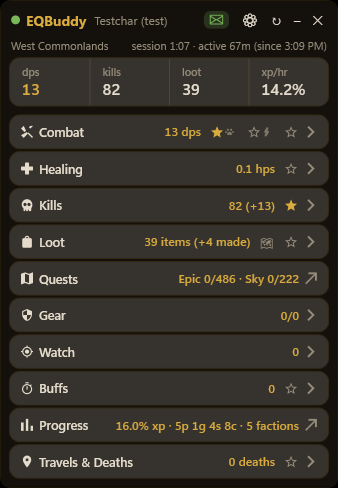
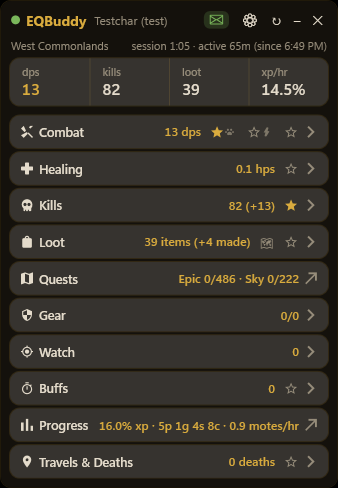
#219: motes/hr is back on the widget, and the launcher carries what moves
typical-usual-chaos, within an hour of 1.96.0: "Where'd motes/hour go? That was
the most useful stat and the main reason I opened EQBuddy." He is right, and it
was mine. Yesterday's Progress fold put the Motes card into the Wealth tab and
the RATE went with it - reachable only by opening the window and clicking a tab,
and gone from Options, so there was no way to put it back. His third screenshot
is Options -> Cards & windows with no Motes row in it.

The launcher now carries what MOVES WHILE YOU PLAY - xp, coin, and the mote rate
- and faction/raids moved off it onto their own tab badges, which already showed
them. That is a rule rather than a width trick, and it is the second time this
line has been decided by looking at the card: the first version truncated
mid-word, and trimming it to fit is what dropped the mote rate in the first
place. A summary replacing five card headers gets to choose WHICH numbers, not
to quietly lose one.

ProgressThemeTests is new and is the point: every gate was green when this
shipped, because nothing asked. It is a string.

Also in this commit, both found while looking at his screenshots:

* A long zone name printed straight THROUGH the session timer - "The Plane of
  Fear 4 (Refine[sed]sion 0:11 - active 11m". ZoneText and SessionText were both
  children of a Grid with no ColumnDefinitions, so they shared one cell and
  nothing ever told the zone where the other text starts. The Avalonia twin has
[…]

diff --git a/src/EQBuddy/MainWindow.xaml b/src/EQBuddy/MainWindow.xaml
@@ -178,10 +178,27 @@
                            Foreground="{DynamicResource GoodBrush}" FontWeight="SemiBold"/>
             </Border>
 
-            <!-- Session line -->
+            <!-- Session line.
+                 TWO COLUMNS, and it has to be. These were both children of a Grid with no
+                 ColumnDefinitions, so they shared one cell — zone left, session right —
+                 and a long zone name drew straight THROUGH the session text: "The Plane
+                 of Fear 4 (Refine[sed]sion 0:11 · active 11m". Not clipped, not
+                 ellipsized, overprinted, because nothing ever told the zone where the
+                 other text starts. Trap 14's family: the fix is a real column, and the
+                 trimming only works once there is one.
+                 Spotted in a screenshot attached to #219 about something else entirely;
+                 nobody has ever reported it. The Avalonia twin has had the two-column
+                 grid all along (MainWindow.cs BuildSessionLine) — this is the Windows
+                 side catching up, not a new idea. -->
             <Grid Margin="{DynamicResource KpiRow}">
-                <TextBlock x:Name="ZoneText" Style="{StaticResource Dim}" Text="—"/>
-                <TextBlock x:Name="SessionText" Style="{StaticResource Dim}" HorizontalAlignment="Right" Text="session 0:00"/>
+                <Grid.ColumnDefinitions>
+                    <ColumnDefinition Width="*"/>
+                    <ColumnDefinition Width="Auto"/>
+                </Grid.ColumnDefinitions>
+                <TextBlock x:Name="ZoneText" Style="{StaticResource Dim}" Text="—"
+                           TextTrimming="CharacterEllipsis"/>
+                <TextBlock x:Name="SessionText" Grid.Column="1" Style="{StaticResource Dim}"
+                           HorizontalAlignment="Right" Text="session 0:00"/>
             </Grid>
 
             <!-- KPI strip (2026-08-11 modernization): the headline numbers before any

diff --git a/src/EQBuddy.UI.Shared/ProgressTheme.cs b/src/EQBuddy.UI.Shared/ProgressTheme.cs
@@ -1,4 +1,4 @@
-using EQBuddy.Core;
+using EQBuddy.Core;
 
 namespace EQBuddy.UI.Shared;
 
@@ -34,10 +34,21 @@ public static class ProgressTheme
     public static string Wealth(StatsSnapshot s)
     {
         var coin = StatsSnapshot.FormatCoin(s.Copper);
+        return MoteRate(s) is { } motes ? $"{coin} · {motes}" : coin;
+    }
+
+    /// <summary>The mote headline: count AND rate, the two halves the Motes card's own
+    /// header carried ("3 · 0.9/hr"). Null when nothing has dropped.
+    ///
+    /// The RATE is the point and it is the half that went missing in 1.96.0 — #219
+    /// (typical-usual-chaos): "Where'd motes/hour go? That was the most useful stat and
+    /// the main reason I opened EQBuddy." A farmer is measuring a camp against the clock,
+    /// so a running total answers a different question than the one being asked.</summary>
+    public static string? MoteRate(StatsSnapshot s)
+    {
         var motes = Motes.Summarize(s.Loot, s.Elapsed);
-        return motes.Total > 0
-            ? $"{coin} · {motes.Total} mote{(motes.Total == 1 ? "" : "s")}"
-            : coin;
+        if (motes.Total <= 0) return null;
+        return $"{motes.Total} mote{(motes.Total == 1 ? "" : "s")} · {motes.PerHour:0.#}/hr";
     }
 
     /// <summary>The Faction badge — the Faction card's own header, with the plural fixed.
@@ -70,23 +81,30 @@ public static class ProgressTheme
     /// <summary>The launcher card's one line — the line that has to justify replacing
     /// five card headers with one. Delegates the assembly (and the "omit a part that has
     /// nothing to say" rule) to <see cref="ProgressSurface.LauncherSummary"/>, which is
-    /// unit-tested in Core; this only decides which numbers go in.</summary>
+    /// unit-tested in Core; this only decides which numbers go in.
+    /// </summary>
     /// <remarks>
-    /// The parts here are SHORTER than the tab badges they come from, and that was found
-    /// by looking at the card rather than by reasoning about it: the first version passed
-    /// <see cref="Experience"/> and <see cref="Wealth"/> straight through and the widget
-    /// rendered "16.0% xp, +1 aa · 5p 1g 4s 8c · 1 mot…" — clipped mid-word, with the
-    /// faction count lost off the end entirely. A summary that replaces five card headers
-    /// and then truncates has not kept the glance; it has just hidden the loss.
+    /// **It carries what MOVES WHILE YOU PLAY: xp, coin, and the mote rate.** Faction and
+    /// raid clears are review-time facts and badge their own tabs instead — one click,
+    /// no scrolling.
     ///
-    /// So the launcher takes the headline of each part and the TABS carry the detail: the
-    /// AA and level counts belong to Experience's badge, the mote count to Wealth's. Four
-    /// short parts fit the widget's width; four full ones do not.
+    /// That rule was arrived at twice, both times by looking at the card rather than
+    /// reasoning about it. Passing the tab badges through verbatim rendered
+    /// "16.0% xp, +1 aa · 5p 1g 4s 8c · 1 mot…" — clipped mid-word, faction lost off the
+    /// end. Trimming each part to a headline then fitted, but the part dropped to make it
+    /// fit was the mote rate, and #219 (typical-usual-chaos) arrived within the hour of
+    /// 1.96.0: "Where'd motes/hour go? That was the most useful stat and the main reason I
+    /// opened EQBuddy."
+    ///
+    /// So the line is chosen by what changes while you are playing, not by what happens to
+    /// fit. A lifetime raid count and a faction TALLY ("5 factions" names neither which nor
+    /// how much) are the two weakest things that were on it; the mote rate is why a farmer
+    /// has the widget open at all.
     /// </remarks>
-    public static string LauncherSummary(StatsSnapshot s, int dingUnlocks, int raidsDefeated) =>
+    public static string LauncherSummary(StatsSnapshot s) =>
         ProgressSurface.LauncherSummary(
             xp: $"{s.XpPercent:0.0}% xp",
             coin: StatsSnapshot.FormatCoin(s.Copper),
-            factions: s.Faction.Count,
-            raidsCleared: raidsDefeated);
+            motes: Motes.Summarize(s.Loot, s.Elapsed) is { Total: > 0 } m
+                ? $"{m.PerHour:0.#} motes/hr" : null);
 }

diff --git a/tests/EQBuddy.Tests/ProgressThemeTests.cs b/tests/EQBuddy.Tests/ProgressThemeTests.cs
@@ -1,0 +1,102 @@
+using EQBuddy.Core;
+using EQBuddy.UI.Shared;
+using Xunit;
+
+namespace EQBuddy.Tests;
+
+/// <summary>
+/// What the PROGRESS THEME's launcher line and tab badges actually say.
+///
+/// **This file exists because 1.96.0 shipped without it and a player noticed within the
+/// hour.** The Progress theme folded five cards into one launcher; the Motes card's header
+/// had read "3 · 0.9/hr" on the widget face, and after the fold the rate survived only
+/// inside the Wealth tab's body — two clicks away, and gone from Options entirely, so it
+/// could not be put back. #219 (typical-usual-chaos): *"Where'd motes/hour go? That was
+/// the most useful stat and the main reason I opened EQBuddy."*
+///
+/// Every gate was green when that shipped. Nothing here is subtle or racy — it is a
+/// string, and the only reason no test caught it is that no test asked. So these ask.
+/// </summary>
+public class ProgressThemeTests
+{
+    /// <summary>A session that has looted motes over a measurable stretch — the shape a
+    /// farmer is in when they glance at the widget.</summary>
+    private static StatsSnapshot Farming(int motes = 3, double hours = 2) => new()
+    {
+        SessionStart = DateTime.Now.AddHours(-hours),
+        LastEventTime = DateTime.Now,
+        Copper = 51408,
+        Loot = [new LootDetail("Mote of Infinitesimal Potential", motes, "a shadowed man")],
+    };
+
+    [Fact]
+    public void The_launcher_carries_the_mote_RATE_not_just_a_count()
+    {
+        var line = ProgressTheme.LauncherSummary(Farming());
+
+        // The rate, on the widget face, without opening anything. This is the assertion
+        // #219 is about; a count alone answers a different question than "is this camp
+        // worth staying at".
+        Assert.Contains("motes/hr", line);
+    }
+
+    [Fact]
+    public void The_launcher_still_leads_with_xp_and_coin()
+    {
+        var line = ProgressTheme.LauncherSummary(Farming());
+
+        Assert.StartsWith("0.0% xp", line);
+        Assert.Contains(StatsSnapshot.FormatCoin(51408), line);
+    }
+
+    /// <summary>The other half of the bargain: the line stays short for everyone who is
+    /// not farming motes, which is what earns motes a place on it at all.</summary>
+    [Fact]
+    public void The_launcher_says_nothing_about_motes_when_none_have_dropped()
+    {
+        var line = ProgressTheme.LauncherSummary(new StatsSnapshot
+        {
+            SessionStart = DateTime.Now.AddHours(-1),
+            LastEventTime = DateTime.Now,
+            Copper = 51408,
+        });
+
+        Assert.DoesNotContain("mote", line);
+    }
+
+    /// <summary>Faction and raids badge their own TABS instead of riding the line. Pinned
+    /// so the fix for #219 is not undone by someone re-adding them for symmetry: the line
+    /// truncates mid-word once it is long enough, and the mote rate is what got dropped to
+    /// make room last time.</summary>
+    [Fact]
+    public void The_launcher_leaves_review_time_facts_to_the_tabs()
+    {
+        var s = Farming();
+        s.Faction.Add(new FactionDetail("Knights of Truth", 4, 80));
+
+        var line = ProgressTheme.LauncherSummary(s);
+
+        Assert.DoesNotContain("faction", line);
+        Assert.DoesNotContain("raid", line);
+        // …and the tab badge is where it went.
+        Assert.Equal("1 faction", ProgressTheme.Faction(s));
+    }
+
+    [Fact]
+    public void The_wealth_badge_carries_coin_and_the_mote_rate()
+    {
+        var badge = ProgressTheme.Wealth(Farming());
+
+        Assert.Contains(StatsSnapshot.FormatCoin(51408), badge);
+        Assert.Contains("/hr", badge);
+    }
+
+    /// <summary>"1 motes" is the same slip the Faction badge carried for months. It is
+    /// cheap to pin and it reads as carelessness on a surface people look at constantly.</summary>
+    [Fact]
+    public void One_mote_is_singular()
+    {
+        Assert.Contains("1 mote ", ProgressTheme.Wealth(Farming(motes: 1)));
+        Assert.Contains("2 motes ", ProgressTheme.Wealth(Farming(motes: 2)));
+    }
+}

diff --git a/src/EQBuddy.Core/ProgressSurface.cs b/src/EQBuddy.Core/ProgressSurface.cs
@@ -1,4 +1,4 @@
-namespace EQBuddy.Core;
+namespace EQBuddy.Core;
 
 /// <summary>
 /// The four progress surfaces, in the order every UI shows them — the Progress THEME
@@ -113,15 +113,30 @@ public static class ProgressSurface
     /// card's "Epic 0/486 · Sky 0/222": carry the numbers those headers carried, so the
     /// glance they answered still works without opening anything.
     ///
-    /// XP leads because it is the one that moves every fight. A part that has nothing to
-    /// say is omitted rather than printed as a zero — five zeros would be noise on a fresh
-    /// character, which is exactly who is looking at a fresh widget.</summary>
+    /// **The line carries what MOVES WHILE YOU PLAY, and the tab badges carry the rest.**
+    /// XP leads because it changes every fight; coin and the mote rate change every drop.
+    /// Faction and raid clears are review-time facts — they still badge their own tabs,
+    /// which is one click and no scrolling. That split is not a width trick, it is what a
+    /// glance is FOR, and it was learned the hard way twice in one day: first the line was
+    /// long enough to truncate mid-word, then it was trimmed by dropping the mote rate —
+    /// and #219 (typical-usual-chaos) arrived within the hour saying motes/hr "was the
+    /// most useful stat and the main reason I opened EQBuddy". A summary that replaces
+    /// five card headers gets to choose WHICH numbers, not to quietly lose one.
+    ///
+    /// A part that has nothing to say is omitted rather than printed as a zero — five
+    /// zeros would be noise on a fresh character, which is exactly who is looking at a
+    /// fresh widget. That is also what keeps this line short for the players who are not
+    /// farming motes.</summary>
     public static string LauncherSummary(
-        string? xp = null, string? coin = null, int factions = 0, int raidsCleared = 0)
+        string? xp = null, string? coin = null, int factions = 0, int raidsCleared = 0,
+        string? motes = null)
     {
         var parts = new List<string>();
         if (!string.IsNullOrWhiteSpace(xp)) parts.Add(xp!);
         if (!string.IsNullOrWhiteSpace(coin)) parts.Add(coin!);
+        // Straight after coin: motes ARE currency in Legends, and a farmer watches the
+        // rate the way everyone else watches xp/hr.
+        if (!string.IsNullOrWhiteSpace(motes)) parts.Add(motes!);
         if (factions > 0) parts.Add($"{factions} faction{(factions == 1 ? "" : "s")}");
         if (raidsCleared > 0) parts.Add($"{raidsCleared} raid{(raidsCleared == 1 ? "" : "s")}");
         return parts.Count > 0 ? string.Join(" · ", parts) : "no progress yet";

diff --git a/src/EQBuddy.Core/UpdateChecker.cs b/src/EQBuddy.Core/UpdateChecker.cs
@@ -1,4 +1,4 @@
-using System.Diagnostics;
+using System.Diagnostics;
 using System.IO;
 using System.Net.Http;
 using System.Reflection;
@@ -142,10 +142,18 @@ public static class UpdateChecker
         var folder = FindUpdateFolder(configuredFolder);
         var local = folder is null ? null : Check(folder);
 
-        // A local folder holding a genuine update is the cheapest possible install: take it
-        // and skip the network entirely, which is the point of the family/LAN channel.
-        if (local is not null && IsNewer(local)) return local;
-
+        // BOTH sources, always. This used to short-circuit — "if the local folder holds
+        // anything newer than what is installed, take it and skip the network" — which is
+        // the same veto the paragraph above says was removed, just narrower: local only had
+        // to beat the INSTALLED build, not the published one. A folder sitting one release
+        // behind therefore hid every release after it, one hop at a time, and the player
+        // updated, relaunched, and was offered another (#218, n3cr0nk1tt3n: "I have to
+        // update multiple times when starting up a session because it did not update to
+        // the most modern build").
+        //
+        // The family/LAN channel loses nothing. PickBest still gives local the tie, so an
+        // equally-new file on disk is still installed without a download — and the check
+        // that now always runs is a small API probe with a short timeout, not the 45 MB.
         return PickBest(local, await CheckGitHubAsync());
     }
 

diff --git a/tests/EQBuddy.Tests/UpdateCheckerTests.cs b/tests/EQBuddy.Tests/UpdateCheckerTests.cs
@@ -1,4 +1,4 @@
-using System.Security.Cryptography;
+using System.Security.Cryptography;
 using EQBuddy.Core;
 
 namespace EQBuddy.Tests;
@@ -23,7 +23,17 @@ public class UpdateCheckerTests : IDisposable
     /// <summary>The bug this exists to prevent: a synced-but-stale local installer is a
     /// perfectly good answer, just not a new one. It used to stop the GitHub feed from being
     /// consulted at all, so a family member whose OneDrive hadn't caught up never heard about
-    /// the release — and a restart didn't help, because startup took the same path.</summary>
+    /// the release — and a restart didn't help, because startup took the same path.
+    ///
+    /// **And it went on shipping while this test was green (#218).** The rule was right and
+    /// asserted here; the CALLER never reached it. <c>FindBestAsync</c> kept an early
+    /// return — "if local beats what is INSTALLED, take it and skip the network" — which is
+    /// the same veto one level up, narrower and therefore harder to see: local only had to
+    /// beat the installed build, not the published one, so a folder one release behind hid
+    /// every release after it and the player updated a hop at a time.
+    ///
+    /// Worth remembering as a shape: a decision function can be correct, and tested, and
+    /// bypassed. When a rule matters, ask who is allowed NOT to call it.</summary>
     [Fact]
     public void AStaleLocalFolderDoesNotHideANewerRelease() =>
         Assert.Equal(new Version(1, 15, 0), UpdateChecker.PickBest(Local(14), Web(15))!.Latest);

diff --git a/src/EQBuddy/MainWindow.xaml.cs b/src/EQBuddy/MainWindow.xaml.cs
@@ -2380,8 +2380,7 @@ public partial class MainWindow : Window, ICardContext
         // it, which is the whole bargain of the fold: the glance survives, the five slots
         // do not. Assembled in UI.Shared so the Avalonia widget and EQBuddy Mobile say the
         // same thing (#210 — parity by shared module, never by feature list).
-        ProgressHeader.Text = ProgressTheme.LauncherSummary(
-            s, ProgressDingUnlocks(s).Count, _raidLedger.DefeatedCount());
+        ProgressHeader.Text = ProgressTheme.LauncherSummary(s);
         MiscHeader.Text = $"{s.Deaths.Count} death{(s.Deaths.Count == 1 ? "" : "s")}";
         ApplySessionSubsections();
 

diff --git a/src/EQBuddy.Avalonia/MainWindow.cs b/src/EQBuddy.Avalonia/MainWindow.cs
@@ -1947,8 +1947,7 @@ public sealed class MainWindow : Window, IZoneHost, IQuestsHost, IDropsHost, IBu
         // the glance survives the fold even though the five slots do not. Assembled in
         // UI.Shared so this build, the WPF widget and EQBuddy Mobile say the same thing
         // (#210: parity by shared module, never by feature list).
-        _progressHeader.Text = ProgressTheme.LauncherSummary(
-            s, DingUnlocks(s).Count, _raidLedger.DefeatedCount());
+        _progressHeader.Text = ProgressTheme.LauncherSummary(s);
         _miscHeader.Text = $"{s.Deaths.Count} death{(s.Deaths.Count == 1 ? "" : "s")}";
     }
 
